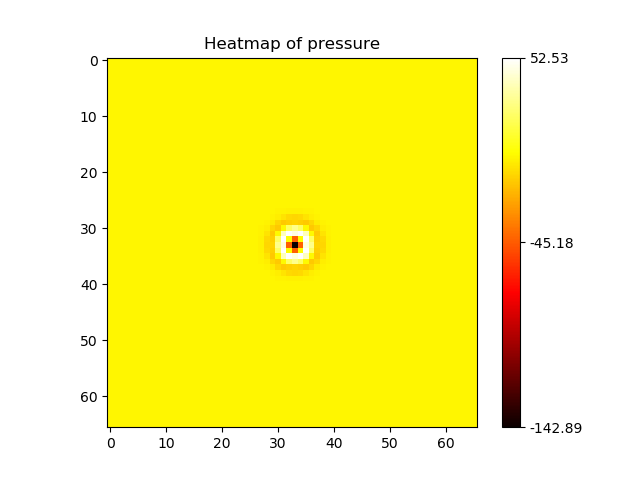
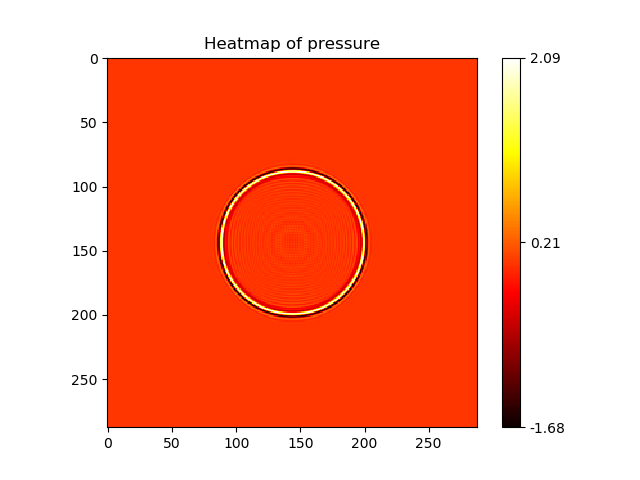
Final test runs

diff --git a/archives/stencil_parallel_laplace.py b/archives/stencil_parallel_laplace.py
@@ -7,11 +7,11 @@ from matplotlib import pyplot
 
 vel = 3000.0
 f0 = 15
-nt = 200
+nt = 50
 dt = .002
-nx = 200
-ny = 200
-nz = 200
+nx = 50
+ny = 50
+nz = 50
 #nx = 50
 #ny = 50
 #nz = 50
@@ -20,31 +20,38 @@ x_idx = nx//2
 y_idx = ny//2
 z_idx = nz//2
 #finite difference coefficients for different order of stencils
-#radius = 1
-#coeff = [-2, 1] 
+radius = 1
+coeff = [-2, 1] 
 #radius = 4
 #coeff = [-2.8472222, 1.6, -.2, 2.53968/100]
-radius = 8
-coeff = [-3.0548446, 1.777777, -3.1111111/10, 7.572087/100, -1.767676/100, 3.480962/1000, -5.180005/10000, 5.074287/(10*10*10*10*10), -2.42812/np.power(10, 6)]
+#radius = 8
+#coeff = [-3.0548446, 1.777777, -3.1111111/10, 7.572087/100, -1.767676/100, 3.480962/1000, -5.180005/10000, 5.074287/(10*10*10*10*10), -2.42812/np.power(10, 6)]
 
 
 
-@numba.njit(parallel=True)
-def laplace_manual_stencil(a, coeff):
+@stencil(neighborhood = ((-radius, radius), (-radius, radius), (-radius, radius),), standard_indexing=("coeff",) )
+#@jit(nopython=True, parallel=True)
+#@numba.njit(parallel=True)
+def laplace(a, coeff):
 #def laplace(a):
-	laplace = np.zeros((nx+2*radius)*(ny+2*radius)*(nz+2*radius)).reshape((nx+2*radius, ny+2*radius, nz+2*radius))
-	for x in prange(radius, nx-radius):
-		#print("one x laplacian done")
-		for y in prange(radius, ny-radius):
-			#print("one x, y laplacian done")
-			for z in prange(radius, nz-radius):
-				#print("one x, y, z laplacian done")
-				laplace[x, y, z] = coeff[0]*a[x, y, z]*3
-				for i in range(1, radius+1):
-					laplace[x, y, z] += coeff[i]*((a[x, y, z-i] + a[x, y, z+i])
-							 + (a[x, y-i, z] + a[x, y+i, z]) 
-							 + (a[x-i, y, z] + a[x+i, y, z]))
+	laplace = coeff[0]*a[0, 0, 0]*3
+	for i in range(1, radius+1):
+		laplace+= coeff[i]*((a[0, 0, -i] + a[0, 0, i]) + (a[0, -i, 0] + a[0, i, 0]) + (a[-i, 0, 0] + a[i, 0, 0]))
 	return laplace
+
+
+@stencil(neighborhood = ((0, nx), (0, ny), (0, nz),), standard_indexing=("coeff",) )
+def timestep_stencil(curr_timestep, prev_timestep, coeff):
+	const = (dt*vel/h)**2
+	new_timestep = const*coeff[0]*curr_timestep[0, 0, 0]*3
+	for i in prange(1, radius+1):
+		new_timestep+= const*coeff[i]*((curr_timestep[0, 0, -i] + curr_timestep[0, 0, i]) + (curr_timestep[0, -i, 0] + curr_timestep[0, i, 0]) + (curr_timestep[-i, 0, 0] + curr_timestep[i, 0, 0]))
+	##end laplacian
+	#next_timestep*=((dt*vel/h)**2)
+	new_timestep += 2*curr_timestep[0,0,0] - prev_timestep[0, 0, 0]
+
+	return new_timestep
+
 
 
 
@@ -57,28 +64,22 @@ source = []
 for i in range(nt):
 	source.append(Ricker(dt*i, f0))
 
-#print source
-#print h
 
 prev_timestep = np.zeros((nx+2*radius)*(ny+2*radius)*(nz+2*radius)).reshape((nx+2*radius, ny+2*radius, nz+2*radius))
 curr_timestep = np.zeros((nx+2*radius)*(ny+2*radius)*(nz+2*radius)).reshape((nx+2*radius, ny+2*radius, nz+2*radius))
 next_timestep = np.zeros((nx+2*radius)*(ny+2*radius)*(nz+2*radius)).reshape((nx+2*radius, ny+2*radius, nz+2*radius))
 curr_timestep[x_idx+radius, y_idx+radius, z_idx+radius] += source[0]*(vel*dt)**2
 
-#laplace_arr = laplace(curr_timestep, coeff)
-#print laplace_arr
-
-#@jit(parallel=True)
-#@numba.njit(parallel=True)
-def time_step(next_timestep, curr_timestep, prev_timestep, nt):
+def time_step(new_timestep, curr_timestep, prev_timestep, nt):
 	for i in range(1, nt): 
-		next_timestep = 2*curr_timestep - prev_timestep + laplace_manual_stencil(curr_timestep, coeff)*((dt*vel/h)**2) 
-		next_timestep[x_idx+radius, y_idx+radius, z_idx+radius] += source[i]*(vel*dt)**2
+		#next_timestep = 2*curr_timestep - prev_timestep + laplace(curr_timestep, coeff)*((dt*vel/h)**2) 
+		
+		new_timestep = timestep_stencil(curr_timestep, prev_timestep, coeff)
+		new_timestep[x_idx+radius, y_idx+radius, z_idx+radius] += source[i]*(vel*dt)**2
 		prev_timestep = curr_timestep
-		curr_timestep = next_timestep
-		print(next_timestep[x_idx+radius, y_idx+radius, z_idx+radius])
-
-	return next_timestep
+		curr_timestep = new_timestep
+		print(new_timestep[x_idx+radius, y_idx+radius, z_idx+radius])
+	return new_timestep
 
 
 #next_timestep = time_step(next_timestep, curr_timestep, prev_timestep, nt)
@@ -86,12 +87,10 @@ next_timestep = time_step(next_timestep, curr_timestep, prev_timestep, nt)
 
 fig, ax = pyplot.subplots()
 next_timestep = (next_timestep[:, :, z_idx + radius]) 
-#print next_timestep
 cax = ax.imshow(next_timestep, interpolation='nearest', cmap='hot')
 ax.set_title('Heatmap of pressure')
 # Add colorbar, make sure to specify tick locations to match desired ticklabels
 min, max = np.amin(next_timestep), np.amax(next_timestep) 
-#min, max = np.amin(pressure_array), np.amax(pressure_array) 
 print ("min, max of pressure array are: %f, %f" %(min, max))
 cbar = fig.colorbar(cax, ticks=[min,(max+min)/2.0, max])
 cbar.ax.set_yticklabels(['%.2f' %min, '%.2f' %((max+min)/2.0) ,'%.2f' %max])  

diff --git a/laplace.py b/laplace.py
@@ -3,35 +3,29 @@ from numba import njit, prange
 import numba
 import numpy as np
 from matplotlib import pyplot
+import time
 
+
+#finite difference coefficients for different order of stencils
+radius = 8
+coeff = [-3.0548446, 1.777777, -3.1111111/10, 7.572087/100, -1.767676/100, 3.480962/1000, -5.180005/10000, 5.074287/(10*10*10*10*10), -2.42812/np.power(10, 6)]
 
 vel = 3000.0
 f0 = 15
-nt = 200
-dt = .002
-nx = 200
-ny = 200
-nz = 200
-#nx = 50
-#ny = 50
-#nz = 50
 h = vel/(f0*5.0)
+nt = 200
+#dt = .002
+dt = .3*h/vel
+#nx, ny, nz = 512+2*radius, 512+2*radius, 512+2*radius
+nx, ny, nz = 256+2*radius, 256+2*radius, 256+2*radius
+#nx, ny, nz = 50,50,50
 x_idx = nx//2
 y_idx = ny//2
 z_idx = nz//2
-#finite difference coefficients for different order of stencils
-#radius = 1
-#coeff = [-2, 1] 
-#radius = 4
-#coeff = [-2.8472222, 1.6, -.2, 2.53968/100]
-radius = 8
-coeff = [-3.0548446, 1.777777, -3.1111111/10, 7.572087/100, -1.767676/100, 3.480962/1000, -5.180005/10000, 5.074287/(10*10*10*10*10), -2.42812/np.power(10, 6)]
 
 
 
 @stencil(neighborhood = ((-radius, radius), (-radius, radius), (-radius, radius),), standard_indexing=("coeff",) )
-#@jit(nopython=True, parallel=True)
-#@numba.njit(parallel=True)
 def laplace(a, coeff):
 	laplace = coeff[0]*a[0, 0, 0]*3
 	for i in range(1, radius+1):
@@ -58,16 +52,15 @@ next_timestep = np.zeros((nx+2*radius)*(ny+2*radius)*(nz+2*radius)).reshape((nx+
 curr_timestep[x_idx+radius, y_idx+radius, z_idx+radius] += source[0]*(vel*dt)**2
 
 		
-#@numba.njit(nopython=False, parallel=True)
-#@njit(parallel=True)
 @numba.njit(parallel=True)
-def time_step(next_timestep, curr_timestep, prev_timestep, source):
-	#next_timestep = 2*curr_timestep - prev_timestep 
-	next_timestep = laplace(curr_timestep, coeff) 
-	#next_timestep = 2*curr_timestep - prev_timestep + laplace(curr_timestep, coeff)*((dt*vel/h)**2) 
-	next_timestep[x_idx+radius, y_idx+radius, z_idx+radius] += source*(vel*dt)**2
+def time_step(next_timestep, curr_timestep, prev_timestep, coeff, single_source, vel, dt, h):
+	next_timestep = 2*curr_timestep - prev_timestep + laplace(curr_timestep, coeff)*((dt*vel/h)**2) 
+	next_timestep[x_idx+radius, y_idx+radius, z_idx+radius] += single_source*(vel*dt)**2
 	prev_timestep = curr_timestep
 	curr_timestep = next_timestep
+
+	#next_timestep = laplace(curr_timestep, coeff)*((dt*vel/h)**2) 
+
 	#print("timestep at center: ", next_timestep[x_idx+radius, y_idx+radius, z_idx+radius])
 	#print("source: ", source)
 	return next_timestep, curr_timestep, prev_timestep
@@ -75,13 +68,16 @@ def time_step(next_timestep, curr_timestep, prev_timestep, source):
 #@jit(nopython=False, parallel=True)
 #@numba.njit(nopython=True, parallel=True)
 #@numba.njit(parallel=True)
-def all_time_step(next_timestep, curr_timestep, prev_timestep, nt):
+def all_time_step(next_timestep, curr_timestep, prev_timestep, coeff, source, nt, vel, dt, h):
 	for i in range(1, nt): 
-		next_timestep, curr_timestep, prev_timestep = time_step(next_timestep, curr_timestep, prev_timestep, source[i])
+		next_timestep, curr_timestep, prev_timestep = time_step(next_timestep, curr_timestep, prev_timestep, coeff, source[i], vel, dt, h)
 	return next_timestep
 
 
-next_timestep = all_time_step(next_timestep, curr_timestep, prev_timestep, nt)
+start_time = time.time()
+next_timestep = all_time_step(next_timestep, curr_timestep, prev_timestep, coeff, source, nt, vel, dt, h)
+print("Total timestepping compute time: %s " %(time.time()-start_time))
+#next_timestep = all_time_step(next_timestep, curr_timestep, prev_timestep, coeff, source, nt)
 
 fig, ax = pyplot.subplots()
 next_timestep = (next_timestep[:, :, z_idx + radius]) 
